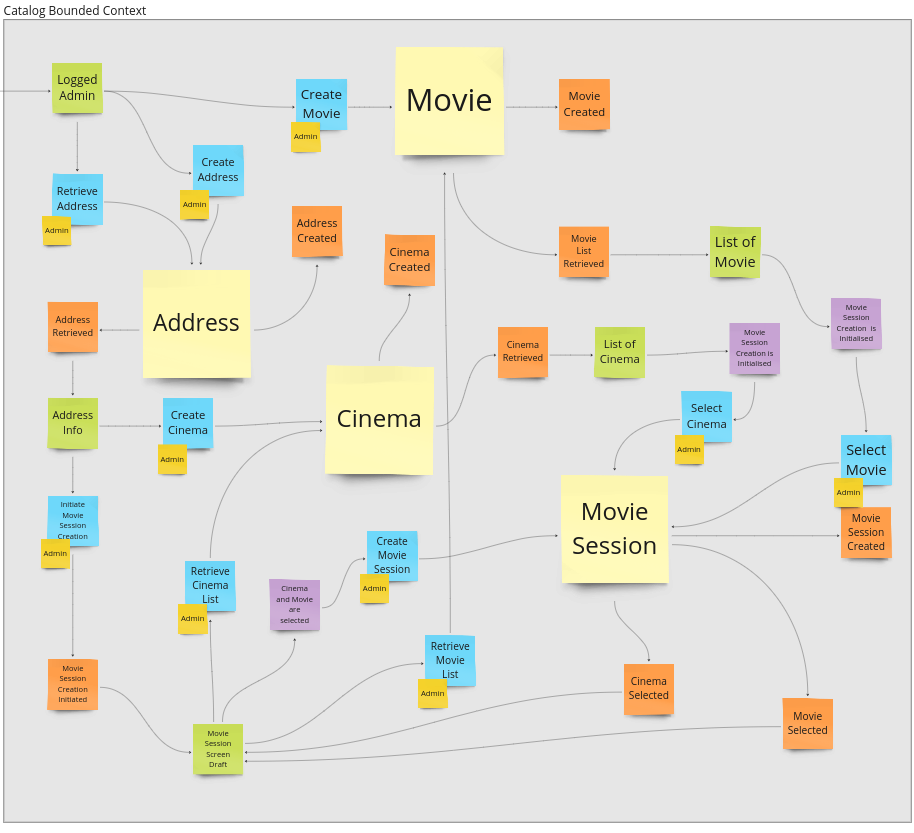
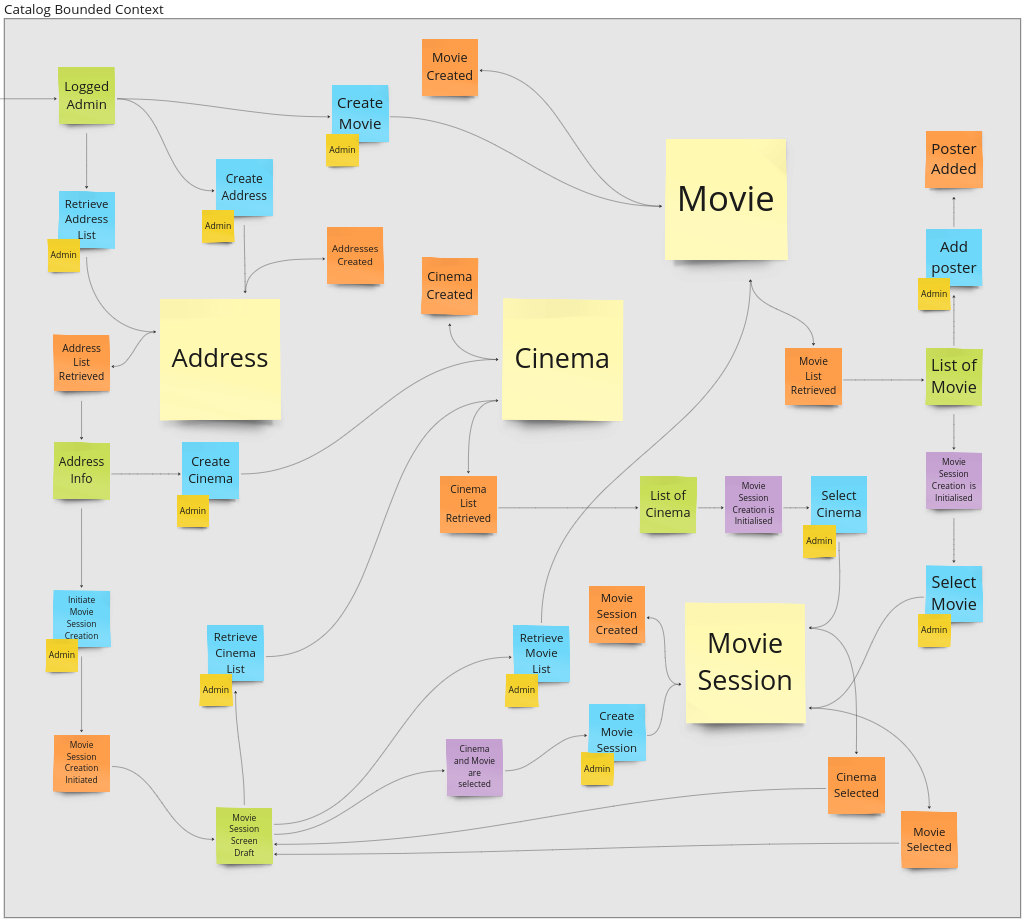
feat(resource): adding upload movie poster route

diff --git a/handlers/rootResources.go b/handlers/rootResources.go
@@ -1,6 +1,7 @@
 package handlers
 
 import (
+	"fmt"
 	"net/http"
 
 	"github.com/gin-gonic/gin"
@@ -17,7 +18,21 @@ func RetrieveRootResources(ctx *gin.Context) {
 	rootURL := "http://localhost:8080/v1"
 	root := hateoas.NewRoot(rootURL)
 
-	createAddressesPost, err := hateoas.NewResource("createAddresses", "addresses", http.MethodPost)
+	// ---------
+	// TODO:
+	// Implements WithRequest option
+	// hateoas.NewResource(
+	// 	"createAddresses",
+	// 	"addresses",
+	// 	http.MethodPost,
+	// 	hateoas.WithRequest(requests.Address{}),
+	// )
+	//---------
+	createAddressesPost, err := hateoas.NewResource(
+		"createAddresses",
+		fmt.Sprintf("%s/%s", rootURL, "addresses"),
+		http.MethodPost,
+	)
 	if err != nil {
 		// TODO: implements on future
 		return
@@ -25,7 +40,22 @@ func RetrieveRootResources(ctx *gin.Context) {
 	createAddressesPost.RequestToProperties(requests.Address{})
 	root.AddResource(createAddressesPost)
 
-	createMoviesPost, err := hateoas.NewResource("createMovies", "movies", http.MethodPost)
+	retrieveAddressListGet, err := hateoas.NewResource(
+		"retrieveAddresses",
+		fmt.Sprintf("%s/%s", rootURL, "addresses"),
+		http.MethodGet,
+	)
+	if err != nil {
+		// TODO: implements on future
+		return
+	}
+	root.AddResource(retrieveAddressListGet)
+
+	createMoviesPost, err := hateoas.NewResource(
+		"createMovies",
+		fmt.Sprintf("%s/%s", rootURL, "movies"),
+		http.MethodPost,
+	)
 	if err != nil {
 		// TODO: implements on future
 		return
@@ -33,11 +63,22 @@ func RetrieveRootResources(ctx *gin.Context) {
 	createMoviesPost.RequestToProperties(requests.Movie{})
 	root.AddResource(createMoviesPost)
 
-	rootRendered, err := root.Render()
+	retrieveMovieListGet, err := hateoas.NewResource(
+		"retrieveMovieList",
+		fmt.Sprintf("%s/%s", rootURL, "movies"),
+		http.MethodGet,
+	)
+	if err != nil {
+		// TODO: implements on future
+		return
+	}
+	root.AddResource(retrieveMovieListGet)
+
+	rootJSON, err := root.ToJSON()
 	if err != nil {
 		// TODO: implements on future
 		return
 	}
 
-	ctx.Data(http.StatusOK, "application/json", rootRendered)
+	ctx.Data(http.StatusOK, "application/json", rootJSON)
 }

diff --git a/handlers/movie.go b/handlers/movie.go
@@ -1,7 +1,9 @@
 package handlers
 
 import (
+	"fmt"
 	"net/http"
+	"path/filepath"
 
 	"github.com/gin-gonic/gin"
 	"github.com/gin-gonic/gin/binding"
@@ -63,7 +65,7 @@ func CreateMovies(ctx *gin.Context) {
 		)
 	}
 
-	responses.SendSuccess(ctx, http.StatusOK, "CreateMovies", responseList)
+	responses.SendSuccess(ctx, http.StatusOK, "CreateMovies", responseList, nil)
 }
 
 func RetrieveMovieList(ctx *gin.Context) {
@@ -89,5 +91,45 @@ func RetrieveMovieList(ctx *gin.Context) {
 		)
 	}
 
-	responses.SendSuccess(ctx, http.StatusOK, "RetrieveMovieList", response)
+	responses.SendSuccess(
+		ctx,
+		http.StatusOK,
+		"RetrieveMovieList",
+		response,
+		responses.HALHeaders,
+	)
+}
+
+func UploadMoviePoster(ctx *gin.Context) {
+	movieUUID := uuid.MustParse(ctx.Param("movieId"))
+
+	var movie models.Movie
+	if err := database.DB.Where(&models.Movie{UUID: movieUUID}).First(&movie).Error; err != nil {
+		// TODO: Implements in future
+		fmt.Println("dont found movie")
+		return
+	}
+
+	file, err := ctx.FormFile("poster")
+	if err != nil {
+		// TODO: Implements in future
+		fmt.Printf("dont sended poster file %v", err)
+		return
+	}
+
+	// TODO: posters dirs, move to ceph s3 in future and manage by envVars
+	uploadPath := "./posters/"
+	posterPath := filepath.Join(uploadPath, movieUUID.String()+filepath.Ext(file.Filename))
+	if err := ctx.SaveUploadedFile(file, posterPath); err != nil {
+		// TODO: Implements in future
+		fmt.Println("dont save poster file")
+		return
+	}
+
+	movie.Poster = posterPath
+	if err := database.DB.Save(&movie).Error; err != nil {
+		// TODO: Implements in future
+		fmt.Println("dont update movie")
+		return
+	}
 }

diff --git a/handlers/requests/address.go b/handlers/requests/address.go
@@ -1,10 +1,10 @@
 package requests
 
 type Address struct {
-	Country     string `json:"country" binding:"required" hateoas:"placeholder:the country of address;required:true"`
-	State       string `json:"state" binding:"required" hateoas:"placeholder:the state of address;required:true"`
-	Telephone   string `json:"telephone" binding:"required" hateoas:"placeholder:the telephone of address;required:true"`
-	Description string `json:"description" binding:"required" hateoas:"placeholder:the description of address;required:true"`
-	PostalCode  string `json:"postalCode" binding:"required" hateoas:"placeholder:the postalCode of address;required:true"`
-	Name        string `json:"name" binding:"required" hateoas:"name:name;prompt:Name;placeholder:the name of address;required:true"`
+	Country     string `json:"country" binding:"required" hateoas:"placeholder:the country of address;required:true;value:BR"`
+	State       string `json:"state" binding:"required" hateoas:"placeholder:the state of address;required:true;value:RJ"`
+	Telephone   string `json:"telephone" binding:"required" hateoas:"placeholder:the telephone of address;required:true;value:9999-9999"`
+	Description string `json:"description" binding:"required" hateoas:"placeholder:the description of address;required:true;value:Bem localizado"`
+	PostalCode  string `json:"postalCode" binding:"required" hateoas:"placeholder:the postalCode of address;required:true;value:21940980"`
+	Name        string `json:"name" binding:"required" hateoas:"placeholder:the name of address;required:true;value:Shopping Center"`
 }

diff --git a/internal/hateoas/resources.go b/internal/hateoas/resources.go
@@ -2,7 +2,6 @@ package hateoas
 
 import (
 	"errors"
-	"fmt"
 	"reflect"
 	"strings"
 
@@ -14,7 +13,9 @@ import (
 // WRAPPER FOR go2hal/hal AND go2hal/halforms TO SIMPLIFY USE
 // https://rwcbook.github.io/hal-forms/#_the_hal_forms_media_type
 // https://github.com/pmoule/go2hall
-// https://hal-explorer.com/#theme=Dark&allHttpMethodsForLinks=true&hkey0=Accept&hval0=application/prs.hal-forms+json&uri=http://localhost:8080/v1/
+//
+// HAL Client runs on docker image in port 4200
+// http://localhost:4200/#uri=http://localhost:8080/v1/
 
 type resource struct {
 	name         string
@@ -23,8 +24,7 @@ type resource struct {
 	template     halforms.Template
 }
 
-func NewResource(name, segmentURL, httpMethod string) (*resource, error) {
-	resourceURL := fmt.Sprintf("%s/%s", rootURL, segmentURL)
+func NewResource(name, resourceURL, httpMethod string) (*resource, error) {
 	linkRelation, err := halforms.NewHALFormsRelation(name, resourceURL)
 	if err != nil {
 		return nil, err
@@ -80,6 +80,10 @@ func (r *resource) RequestToProperties(request interface{}) error {
 					property.Prompt = propKeyValue[1]
 				case "placeholder":
 					property.Placeholder = propKeyValue[1]
+				case "value":
+					property.Value = propKeyValue[1]
+				case "type":
+					property.Type = propKeyValue[1]
 				case "required":
 					required, _ := utils.StringParseBoolean(propKeyValue[1])
 					property.Required = required

diff --git a/handlers/responses/responses.go b/handlers/responses/responses.go
@@ -6,7 +6,19 @@ import (
 	"github.com/gin-gonic/gin"
 )
 
-func SendError(ctx *gin.Context, code int, msg string) {
+type header struct {
+	key   string
+	value string
+}
+
+var (
+	JSONDefaultHeaders = []header{{key: "Content-type", value: "application/json"}}
+	HALHeaders         = []header{{key: "Content-Type", value: "application/prs.hal-forms+json"}}
+)
+
+func SendError(ctx *gin.Context, code int, msg string, headers []header) {
+	setHeaders(ctx, headers)
+
 	ctx.Header("Content-type", "application/json")
 	ctx.JSON(code, gin.H{
 		"message": msg,
@@ -14,10 +26,21 @@ func SendError(ctx *gin.Context, code int, msg string) {
 	})
 }
 
-func SendSuccess(ctx *gin.Context, code int, op string, data interface{}) {
-	ctx.Header("Content-type", "application/json")
+func SendSuccess(ctx *gin.Context, code int, op string, data interface{}, headers []header) {
+	setHeaders(ctx, headers)
+
 	ctx.JSON(code, gin.H{
-		"message": fmt.Sprintf("operation from handler: %s successful", op),
-		"data":    data,
+		"message":   fmt.Sprintf("operation from handler: %s successful", op),
+		"_embedded": data,
 	})
+}
+
+func setHeaders(ctx *gin.Context, headers []header) {
+	if headers == nil {
+		headers = JSONDefaultHeaders
+	}
+
+	for _, header := range headers {
+		ctx.Header(header.key, header.value)
+	}
 }

diff --git a/handlers/requests/movie.go b/handlers/requests/movie.go
@@ -1,9 +1,9 @@
 package requests
 
 type Movie struct {
-	Name        string `json:"name" binding:"required" hateoas:"placeholder:the name of movie;required:true"`
-	Description string `json:"description" binding:"required" hateoas:"placeholder:the description of movie;required:true"`
-	AgeRating   int64  `json:"age_rating" binding:"required" hateoas:"placeholder:the age rating of movie;required:true"`
-	Subtitled   *bool  `json:"subtitled" binding:"required" hateoas:"placeholder:movie is subtitled;required:true"`
-	Poster      string `json:"poster" binding:"required" hateoas:"placeholder:movie poster;required:true"`
+	Name        string `json:"name" binding:"required" hateoas:"placeholder:the name of movie;required:true;value:Gopher-Aranha;type:text"`
+	Description string `json:"description" binding:"required" hateoas:"placeholder:the description of movie;required:true;value:O melhor super-herói de todos os tempos;type:text"`
+	AgeRating   int64  `json:"age_rating" binding:"required" hateoas:"placeholder:the age rating of movie;required:true;value:12;type:text"`
+	Subtitled   *bool  `json:"subtitled" binding:"required" hateoas:"placeholder:movie is subtitled;required:true;value:true;type:text"` //type:checkbox
+	Poster      string `json:"poster"`
 }

diff --git a/handlers/address.go b/handlers/address.go
@@ -46,7 +46,7 @@ func CreateAddresses(ctx *gin.Context) {
 	}
 
 	if err := database.DB.Create(&addressList).Error; err != nil {
-		responses.SendError(ctx, http.StatusBadRequest, err.Error())
+		responses.SendError(ctx, http.StatusBadRequest, err.Error(), nil)
 		return
 	}
 
@@ -65,7 +65,7 @@ func CreateAddresses(ctx *gin.Context) {
 		)
 	}
 
-	responses.SendSuccess(ctx, http.StatusOK, "CreateAddresses", responseList)
+	responses.SendSuccess(ctx, http.StatusOK, "CreateAddresses", responseList, nil)
 }
 
 func RetrieveAddress(ctx *gin.Context) {
@@ -84,10 +84,11 @@ func RetrieveAddress(ctx *gin.Context) {
 		Name:        address.Name,
 	}
 
-	responses.SendSuccess(ctx, http.StatusOK, "RetrieveAddress", response)
+	responses.SendSuccess(ctx, http.StatusOK, "RetrieveAddress", response, nil)
 }
 
 func RetrieveAddressList(ctx *gin.Context) {
+
 	addresses := []models.Address{}
 
 	if err := database.DB.Find(&addresses).Error; err != nil {
@@ -111,5 +112,11 @@ func RetrieveAddressList(ctx *gin.Context) {
 		)
 	}
 
-	responses.SendSuccess(ctx, http.StatusOK, "RetrieveAddressList", response)
+	responses.SendSuccess(
+		ctx,
+		http.StatusOK,
+		"RetrieveAddressList",
+		response,
+		responses.HALHeaders,
+	)
 }

diff --git a/internal/hateoas/root.go b/internal/hateoas/root.go
@@ -5,9 +5,9 @@ import "github.com/pmoule/go2hal/halforms"
 // WRAPPER FOR go2hal/hal AND go2hal/halforms TO SIMPLIFY USE
 // https://rwcbook.github.io/hal-forms/#_the_hal_forms_media_type
 // https://github.com/pmoule/go2hall
-// https://hal-explorer.com/#theme=Dark&allHttpMethodsForLinks=true&hkey0=Accept&hval0=application/prs.hal-forms+json&uri=http://localhost:8080/v1/
-
-var rootURL string
+//
+// HAL Client runs on docker image in port 4200
+// http://localhost:4200/#uri=http://localhost:8080/v1/
 
 type root struct {
 	document  halforms.Document
@@ -15,8 +15,6 @@ type root struct {
 }
 
 func NewRoot(href string) *root {
-	rootURL = href
-
 	return &root{
 		document: halforms.NewDocument(href),
 	}
@@ -29,7 +27,7 @@ func (r *root) AddResource(resource *resource) {
 	r.document.AddLink(resource.linkRelation)
 }
 
-func (r *root) Render() ([]byte, error) {
+func (r *root) ToJSON() ([]byte, error) {
 	encoder := halforms.NewEncoder()
 	bytes, err := encoder.ToJSON(r.document)
 	if err != nil {

diff --git a/router/routes.go b/router/routes.go
@@ -8,6 +8,7 @@ import (
 
 // INFO: To manage OPTION and HEAD verbs requests its necessary to implements HATEOAS HAL routes
 // https://developer.mozilla.org/en-US/docs/Web/HTTP/Methods/OPTIONS#identifying_allowed_request_methods
+
 func initializeRoutes(r *gin.Engine) {
 	basePath := "/v1"
 	v1 := r.Group(basePath)
@@ -27,6 +28,7 @@ func initializeRoutes(r *gin.Engine) {
 	v1.HEAD("addresses/:addressId/cinemas", handlers.Head)
 
 	v1.POST("/movies", handlers.CreateMovies)
+	v1.PUT("/movies/:movieId", handlers.UploadMoviePoster)
 	v1.OPTIONS("/movies", handlers.Option)
 	v1.HEAD("/movies", handlers.Head)
 

diff --git a/handlers/cinema.go b/handlers/cinema.go
@@ -68,5 +68,5 @@ func CreateCinemas(ctx *gin.Context) {
 		)
 	}
 
-	responses.SendSuccess(ctx, http.StatusOK, "CreateCinemas", responseList)
+	responses.SendSuccess(ctx, http.StatusOK, "CreateCinemas", responseList, nil)
 }

diff --git a/README.md b/README.md
@@ -275,6 +275,7 @@ $ docker exec -ti cine-catalogo swag init --parseDependency --parseInternal  --g
 - [Mermaid Diagrams](https://mermaid.js.org)
 - [Swagger](https://swagger.io/)
 - [RESTful](https://restfulapi.net/)
+- [HATEOAS](https://en.wikipedia.org/wiki/HATEOAS)
 - [High Rest Maturity Model](https://martinfowler.com/articles/richardsonMaturityModel.html)
 
 <!-- 
